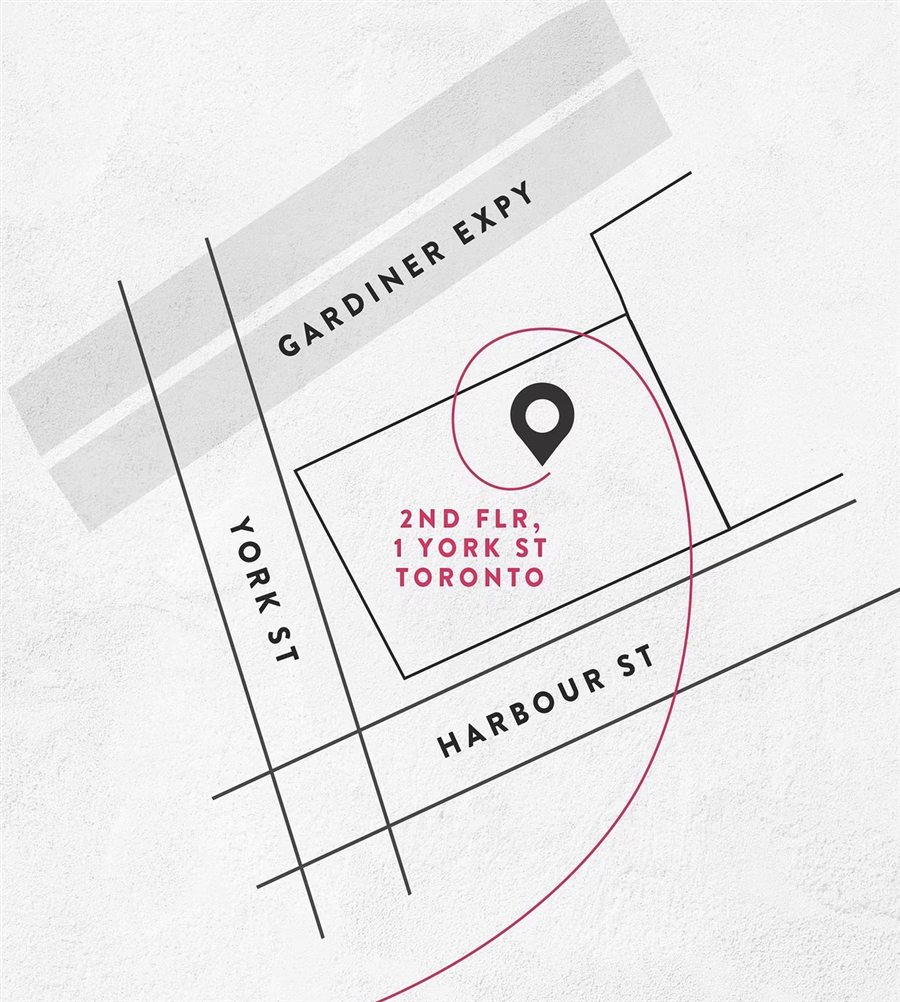
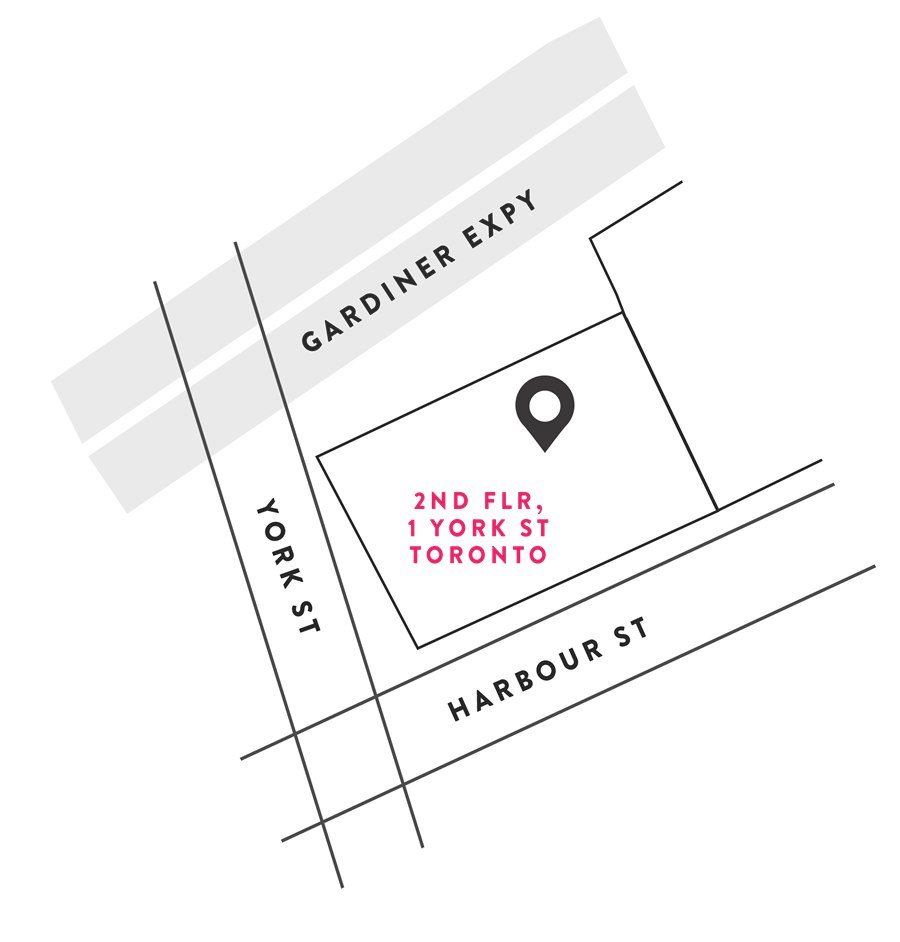
New One York map

diff --git a/index.html b/index.html
@@ -546,7 +546,7 @@
               </div>
             </dl>
             <figure class="info-card__media">
-              <img src="images/one-york-map.jpg" alt="Map: 2nd floor, 1 York St, Toronto, at York St and Harbour St, just south of the Gardiner Expressway" width="900" height="1002" loading="lazy">
+              <img src="images/one-york-map.jpg" alt="Map: 2nd floor, 1 York St, Toronto, at the corner of York St and Harbour St, just south of the Gardiner Expressway" width="900" height="942" loading="lazy">
             </figure>
             <div class="btn-group">
               <a class="btn btn--primary" href="https://www.google.com/maps/search/?api=1&amp;query=1+York+St+Toronto+ON" target="_blank" rel="noopener">Get directions</a>
